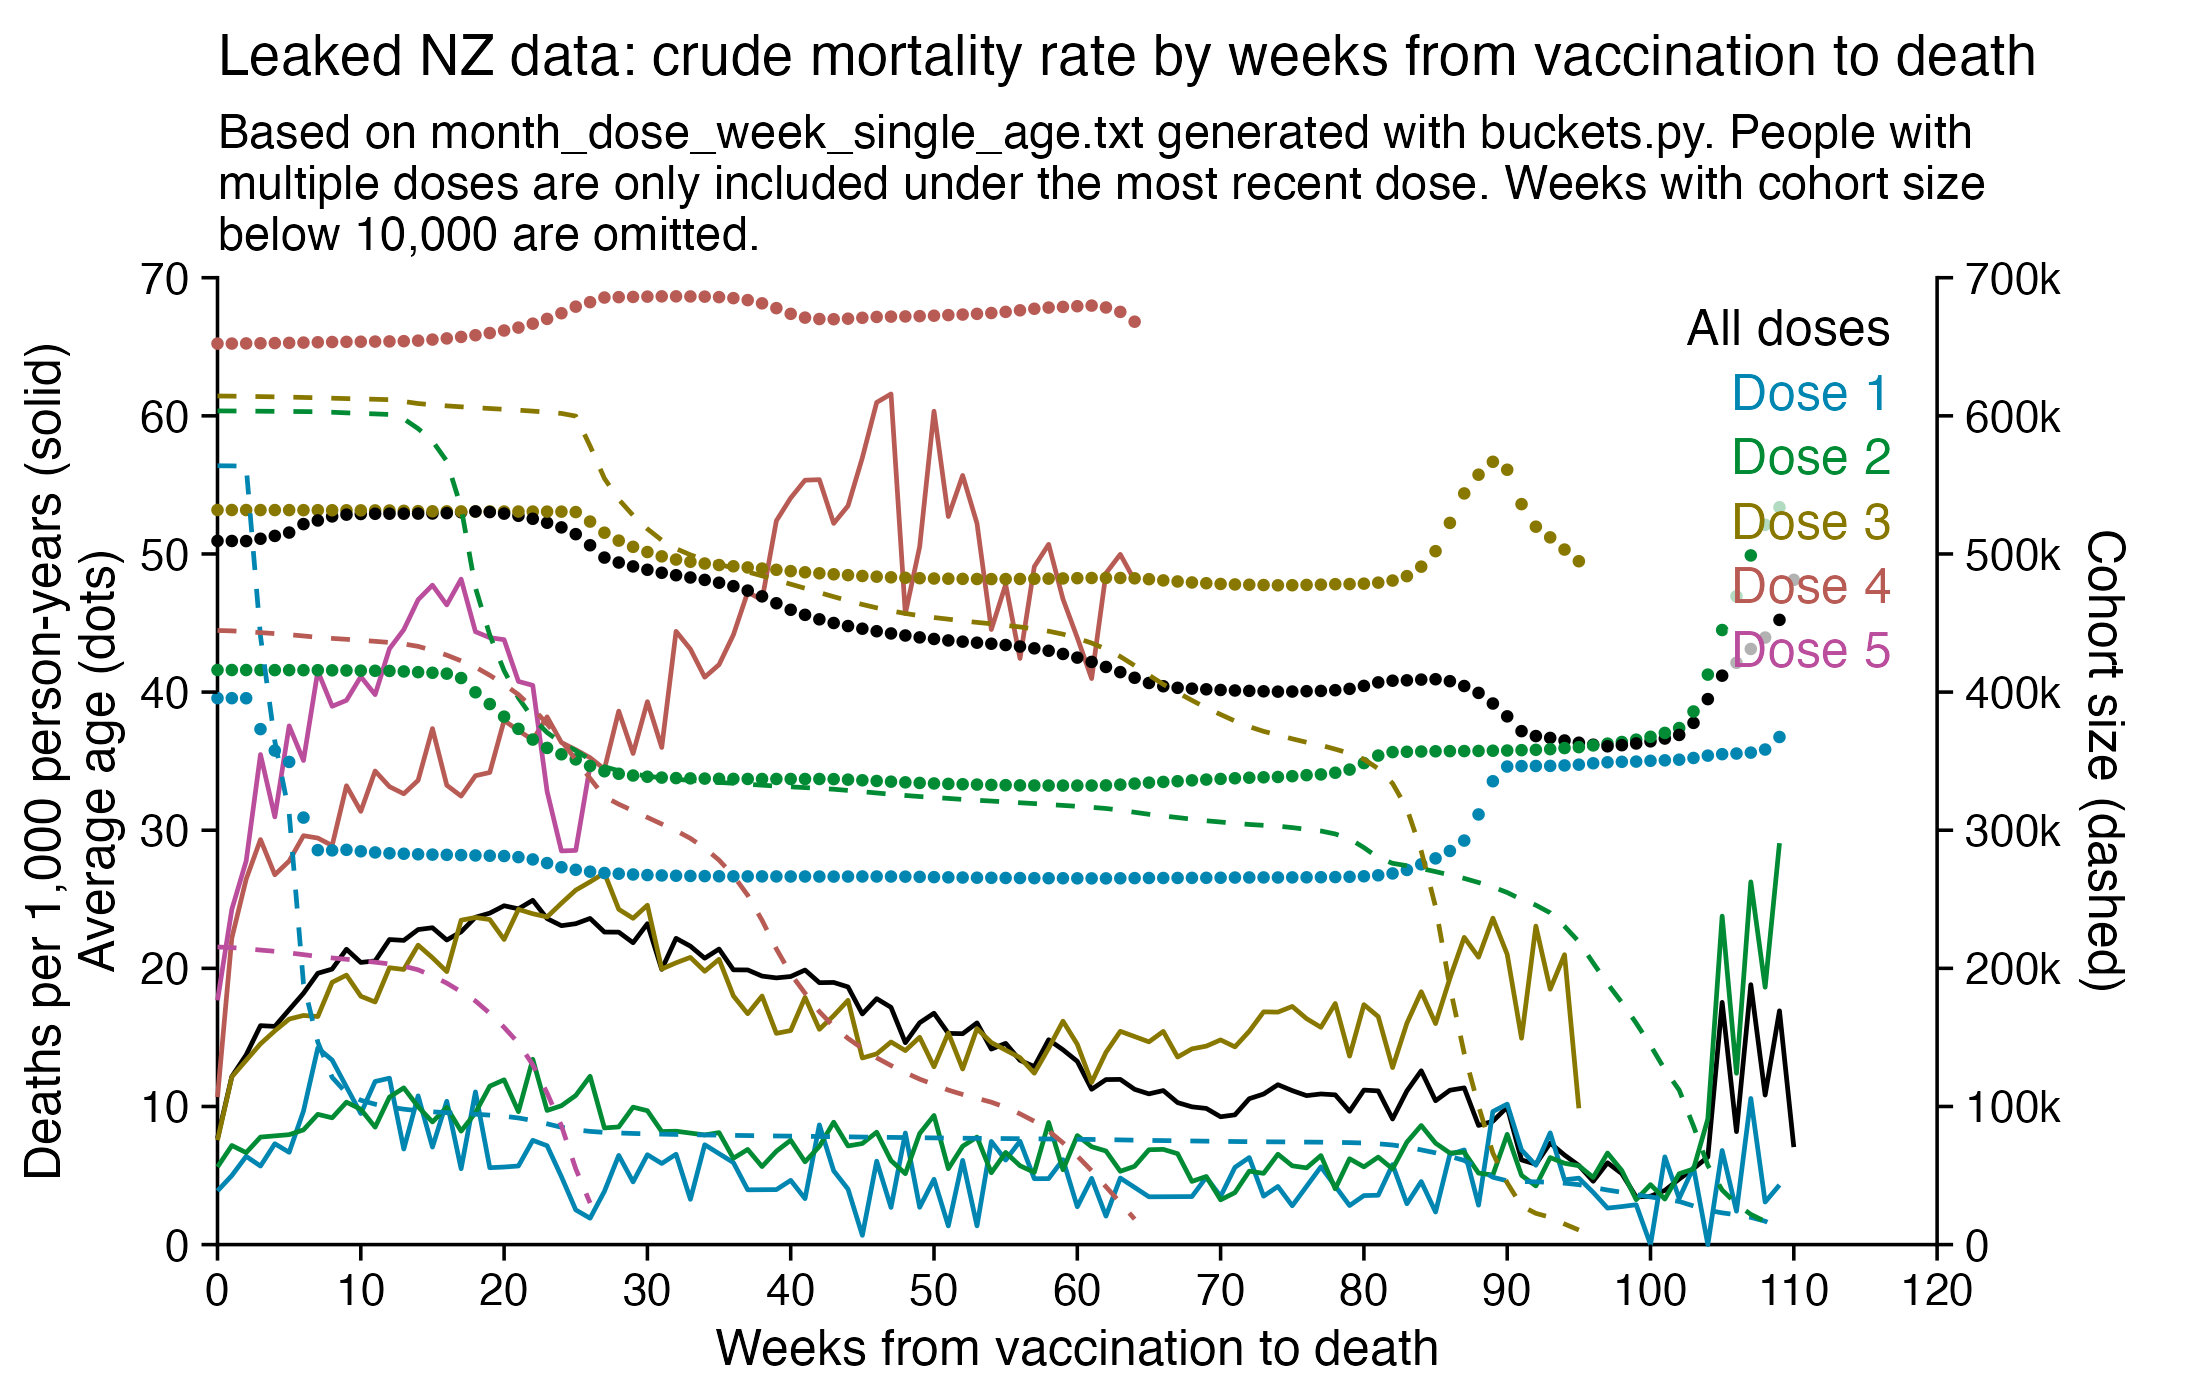
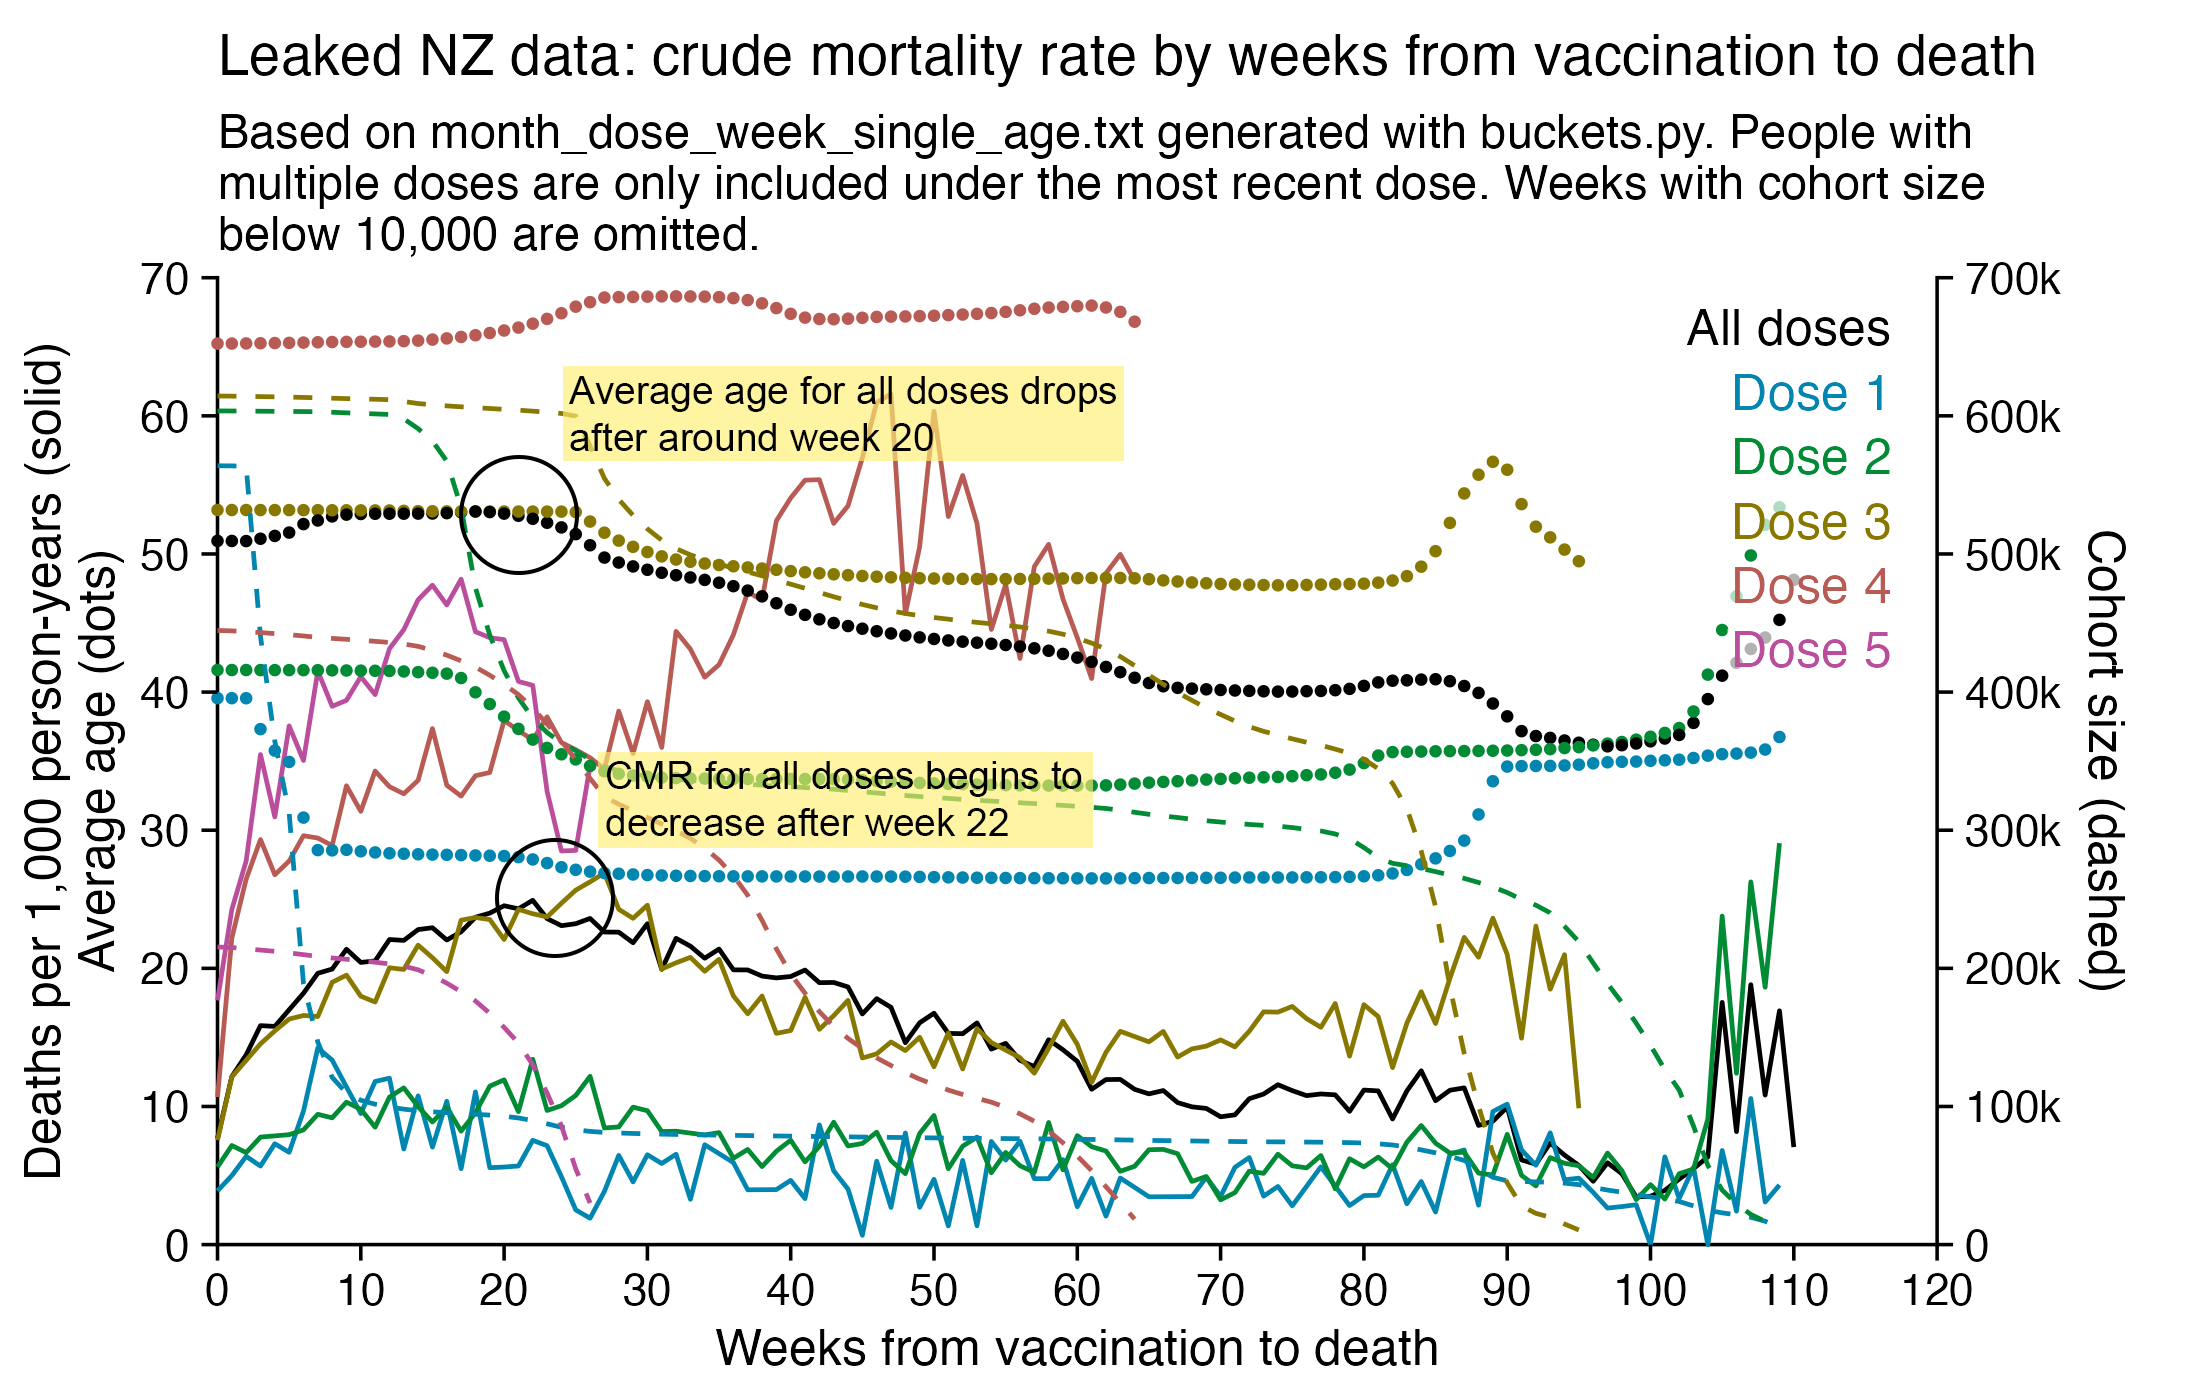
a

Changed region(s): [[0.2164, 0.2457, 0.5255, 0.3379], [0.2473, 0.5221, 0.4945, 0.6143], [0.2164, 0.3993, 0.2473, 0.43]]

diff --git a/moar.html b/moar.html
@@ -566,40 +566,44 @@ $ sed 3q data-transparency/New\ Zealand/time-series\ summaries/month_dose_week_s
 month    dose  week  age  alive  dead
 2021-01  0     0     1    248    0
 2021-01  0     0     2    248    0</pre>
-<p>You can use the file to generate a plot for CMR by dose so that once a person has received a second dose, they are no longer included under the first dose. The plot shows that after around week 22 when the crude mortality rate of all doses begins to decrease, the average age of all doses also decreases. Kirsch said that the peak in mortality around weeks 20-25 was a sign of deaths caused by vaccines, but actually he should've calculated ASMR instead of CMR, or he should've stratified the CMR by age:</p>
+<p>I used the file to generate a plot for CMR by dose so that once a person has received a second dose, they are no longer included under the first dose. My plot shows that after around week 22 when the crude mortality rate of all doses begins to decrease, the average age of all doses also decreases. Kirsch said that the peak in mortality around weeks 20-25 was a sign of deaths caused by vaccines, but actually he should've calculated ASMR instead of CMR, or he should've stratified the CMR by age. From the plot below you can see that the cohort size of the first dose drops rapidly during the first 10 weeks, because people are likely to have gotten the second dose within 2 months of the first dose:</p>
 <div class="width7">
 <img src="i/moar-days-to-death-by-dose-6.png">
+</div>
+<p>The peak in CMR around 20 weeks is missing from age-stratified plots:</p>
+<div class="width10">
+<img src="i/moar-weeks-to-death-age-groups.png">
 </div>
 <p>R code:</p>
 <pre>library(ggplot2)
 
 t=read.table(&quot;data-transparency/New Zealand/time-series summaries/month_dose_week_single_age.txt&quot;,header=T)
 
-ag=aggregate(t[,c(5,6)],t[,c(2:4)],sum)
+ag=aggregate(list(pop=t$alive+t$dead,dead=t$dead),t[,c(2:4)],sum)
 ag=ag[ag$dose&lt;=5&amp;ag$dose&gt;0,]
-ag=merge(ag,aggregate(ag$alive,ag[,1:2],sum),by=1:2)
+ag=merge(ag,aggregate(ag$pop,ag[,1:2],sum),by=1:2)
 colnames(ag)[6]=&quot;allagepop&quot;
 
 xy=aggregate(ag[,c(4:5)],ag[,1:2],sum)
-xy=merge(xy,aggregate(ag$age*ag$alive/ag$allagepop,ag[,c(1:2)],sum),by=1:2)
+xy=merge(xy,aggregate(ag$age*ag$pop/ag$allagepop,ag[,c(1:2)],sum),by=1:2)
 colnames(xy)[5]=&quot;age&quot;
 xy$dose=paste0(&quot;Dose &quot;,xy$dose)
 
 total=aggregate(ag[,4:5],ag[,&quot;week&quot;,drop=F],sum)
 total$dose=&quot;All doses&quot;
-total$age=tapply(ag$age*ag$alive,ag$week,sum)/tapply(ag$alive,ag$week,sum)
+total$age=tapply(ag$age*ag$pop,ag$week,sum)/tapply(ag$pop,ag$week,sum)
 xy=rbind(total[,colnames(xy)],xy)
 
-xy$alive=xy$alive/12
-xy$cmr=xy$dead/xy$alive*365.2422/7*1e3
+xy$pop=xy$pop/12
+xy$cmr=xy$dead/xy$pop*365.2422/7*1e3
 
 xy$dose=factor(xy$dose,unique(xy$dose))
 minpop=1e4
-xy$cmr[xy$alive&lt;minpop]=NA
+xy$cmr[xy$pop&lt;minpop]=NA
 xy=na.omit(xy)
 
 # xy$trend=split(xy,xy$dose)|&gt;lapply(\(i)predict(lm(cmr~week,i),i))|&gt;unlist()
-xy$alive[xy$dose==&quot;All doses&quot;]=NA
+xy$pop[xy$dose==&quot;All doses&quot;]=NA
 
 xstart=0;xend=120;xstep=10
 candidates=c(sapply(c(1,2,5),\(x)x*10^c(-10:10)))
@@ -609,9 +613,9 @@ yend=ystep*ceiling(max(xy$cmr)/ystep)
 xbreak=seq(xstart,xend,xstep)
 ybreak=seq(ystart,yend,ystep)
 
-# ystep2=candidates[which.min(abs(candidates-max(xy$alive,na.rm=T)/6))]
-# yend2=ceiling(max(xy$alive,na.rm=T)/ystep2)*ystep2
-# secmult=yend/yend2
+ystep2=candidates[which.min(abs(candidates-max(xy$pop,na.rm=T)/6))]
+yend2=ceiling(max(xy$pop,na.rm=T)/ystep2)*ystep2
+secmult=yend/yend2
 
 xy=xy[sample(nrow(xy)),] # get random pattern of overlap between dots
 
@@ -623,18 +627,17 @@ kimi=\(x)ifelse(abs(x)&gt;=1e6,paste0(x/1e6,&quot;M&quot;),ifelse(abs(x)&gt;=1e3
 
 ggplot(xy,aes(x=week,y=cmr))+
 geom_hline(yintercept=ystart,color=&quot;black&quot;,linewidth=.3,lineend=&quot;square&quot;)+
-geom_vline(xintercept=xstart,color=&quot;black&quot;,linewidth=.3,lineend=&quot;square&quot;)+
+geom_vline(xintercept=c(xstart,xend),color=&quot;black&quot;,linewidth=.3,lineend=&quot;square&quot;)+
 geom_line(aes(color=dose),linewidth=.4)+
 geom_point(aes(y=age,color=dose),size=.4)+
-geom_line(aes(y=alive/1e4,color=dose),linewidth=.4,linetype=2)+
-# geom_line(aes(y=alive*secmult,color=dose),linewidth=.4,linetype=2)+
-# geom_line(aes(y=trend,color=z),linetype=2,size=.4)+
+geom_line(aes(y=pop*secmult,color=dose),linewidth=.4,linetype=2)+
+# geom_line(aes(y=trend,color=dose),linetype=2,size=.4)+
 geom_label(data=labels,aes(x=x,y=y,label=label),fill=alpha(&quot;white&quot;,.7),label.r=unit(0,&quot;lines&quot;),label.padding=unit(.04,&quot;lines&quot;),label.size=0,color=color[1:nlevels(xy$dose)],size=3.2,hjust=1,vjust=1)+
-labs(x=&quot;Weeks from vaccination to death&quot;,y=&quot;Deaths per 1,000 person-years (solid)\nAverage age (dots)\nCohort size times 10,000 (dashed)&quot;,title=&quot;Leaked NZ data: crude mortality rate by weeks from vaccination to death&quot;,subtitle=paste0(&quot;Based on month_dose_week_single_age.txt generated with buckets.py. People with multiple doses are only included under the most recent dose. Weeks with cohort size below &quot;,formatC(minpop,digits=0,format=&quot;f&quot;,big.mark=&quot;,&quot;),&quot; are omitted.&quot;)|&gt;stringr::str_wrap(84))+
+labs(x=&quot;Weeks from vaccination to death&quot;,y=&quot;Deaths per 1,000 person-years (solid)\nAverage age (dots)&quot;,title=&quot;Leaked NZ data: crude mortality rate by weeks from vaccination to death&quot;,subtitle=paste0(&quot;Based on month_dose_week_single_age.txt generated with buckets.py. People with multiple doses are only included under the most recent dose. Weeks with cohort size below &quot;,formatC(minpop,digits=0,format=&quot;f&quot;,big.mark=&quot;,&quot;),&quot; are omitted.&quot;)|&gt;stringr::str_wrap(84))+
 coord_cartesian(clip=&quot;off&quot;)+
 scale_x_continuous(limits=c(xstart,xend),breaks=xbreak,expand=c(0,0))+
-scale_y_continuous(limits=c(ystart,yend),breaks=ybreak,expand=c(0,0))+
-# scale_y_continuous(limits=c(ystart,yend),breaks=ybreak,expand=c(0,0),sec.axis=sec_axis(trans=~./secmult,breaks=seq(0,yend2,ystep2),name=&quot;Cohort size (dashed)&quot;,labels=kimi))+
+## scale_y_continuous(limits=c(ystart,yend),breaks=ybreak,expand=c(0,0))+
+scale_y_continuous(limits=c(ystart,yend),breaks=ybreak,expand=c(0,0),sec.axis=sec_axis(trans=~./secmult,breaks=seq(0,yend2,ystep2),name=&quot;Cohort size (dashed)&quot;,labels=kimi))+
 scale_color_manual(values=color)+
 theme(
   axis.text=element_text(size=8,color=&quot;black&quot;),
